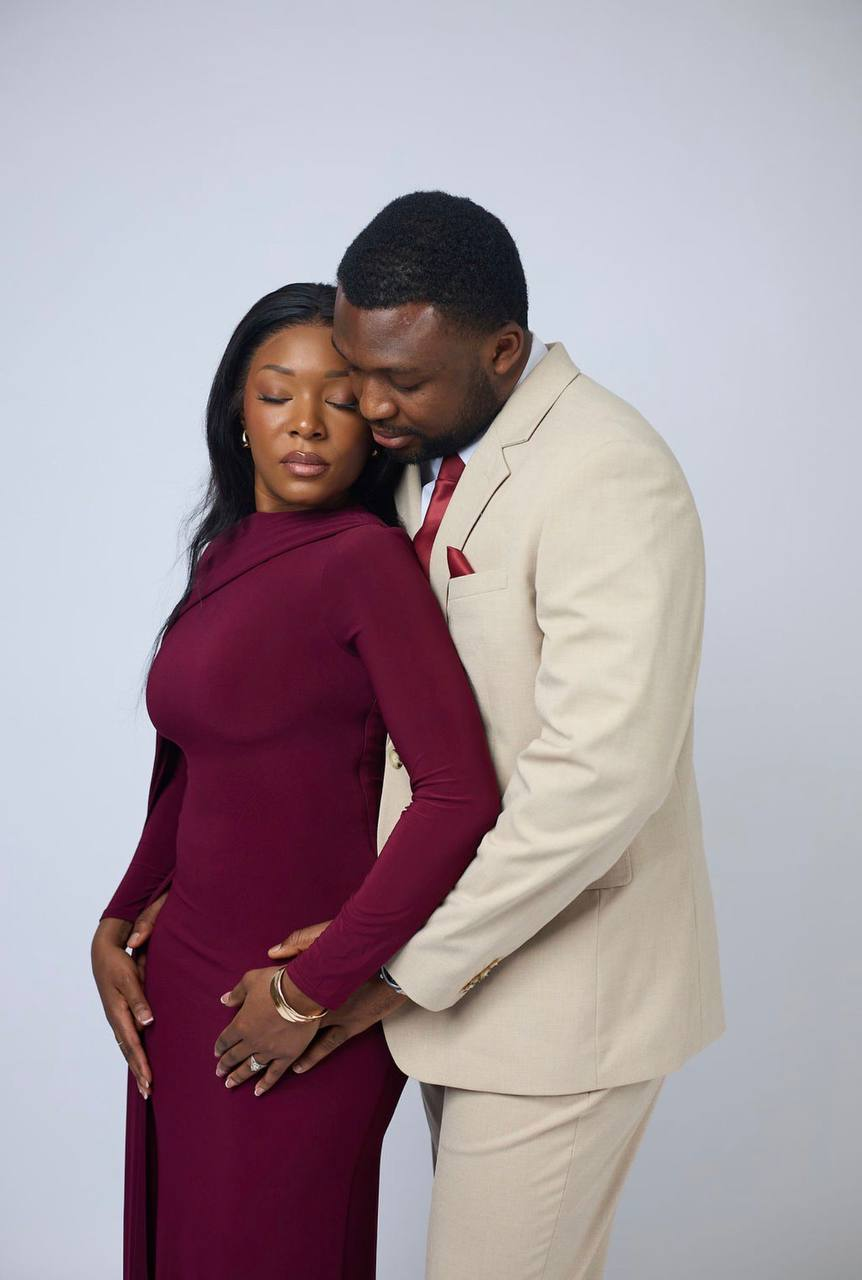
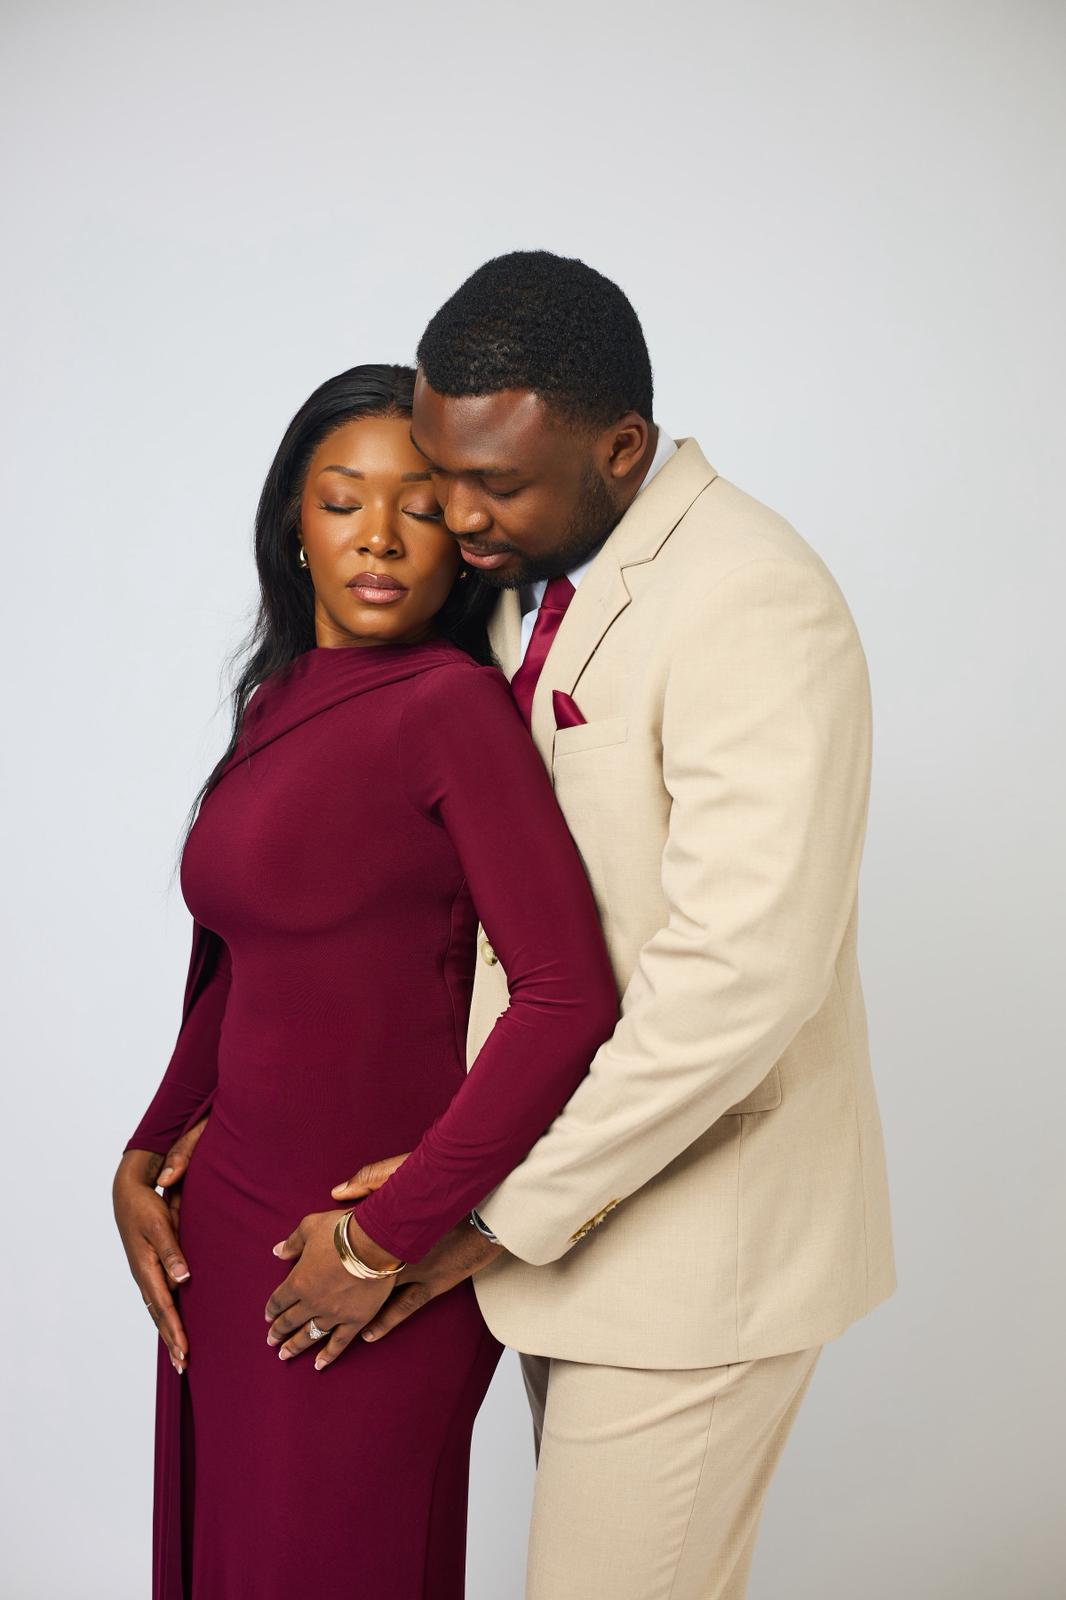
fix the image

diff --git a/src/App.tsx b/src/App.tsx
@@ -171,8 +171,8 @@ export default function App() {
       </section>
 
       <TornSeam upper={PALETTE.white} lower={PALETTE.wine} flip />
-      <footer className="bg-wine px-6 pt-24 text-center">
-        <div className="mx-auto max-w-md">
+      <footer className="bg-wine pt-24 text-center">
+        <div className="mx-auto max-w-md px-6">
           <h2 className="font-script text-3xl text-white sm:text-4xl">
             {site.rsvp.ctaHeading}
           </h2>
@@ -186,21 +186,25 @@ export default function App() {
           <p className="mt-3 font-serif text-xl text-white">
             {site.couple.nameA} and {site.couple.nameB}
           </p>
-          <div className="relative mx-auto mt-8 aspect-[3/4] w-full max-w-[21rem]">
-            {site.footerImage ? (
-              <img
-                src={site.footerImage}
-                alt={`${site.couple.nameA} and ${site.couple.nameB}`}
-                className="absolute inset-0 h-full w-full object-cover"
-              />
-            ) : (
-              <div
-                className="absolute inset-0 bg-wine-deep"
-                aria-hidden="true"
-              />
-            )}
-          </div>
         </div>
+        {site.footerImage ? (
+          <div className="relative mx-auto mt-10 w-full max-w-md">
+            <img
+              src={site.footerImage}
+              alt={`${site.couple.nameA} and ${site.couple.nameB}`}
+              className="block aspect-[4/5] w-full object-cover"
+            />
+            <div
+              className="pointer-events-none absolute inset-x-0 top-0 h-1/2 bg-gradient-to-b from-wine to-wine/0"
+              aria-hidden="true"
+            />
+          </div>
+        ) : (
+          <div
+            className="mx-auto mt-10 aspect-[4/5] w-full max-w-md bg-wine-deep"
+            aria-hidden="true"
+          />
+        )}
       </footer>
     </main>
   );